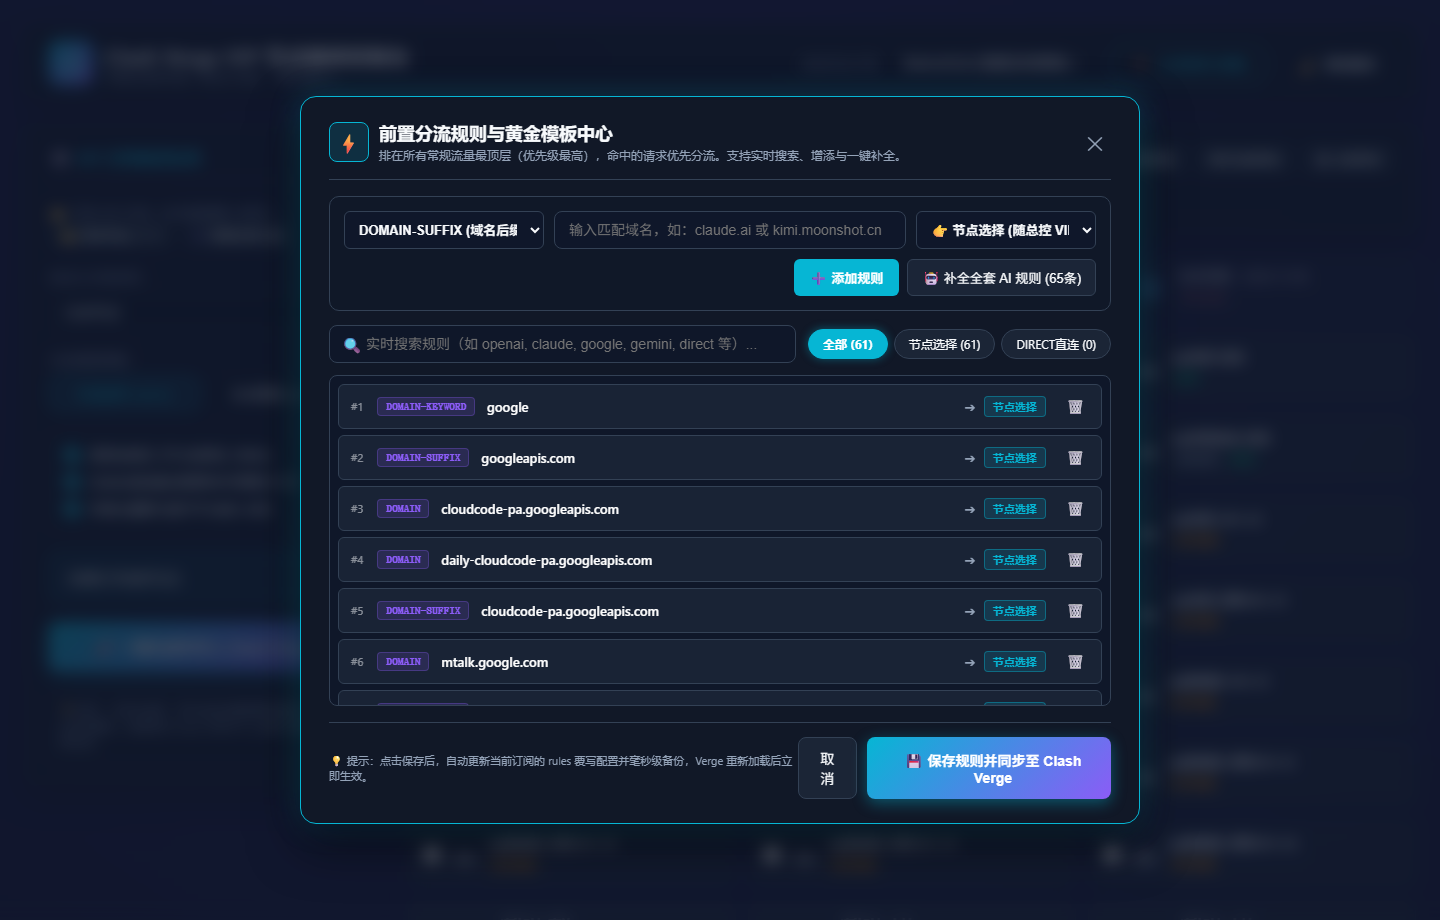
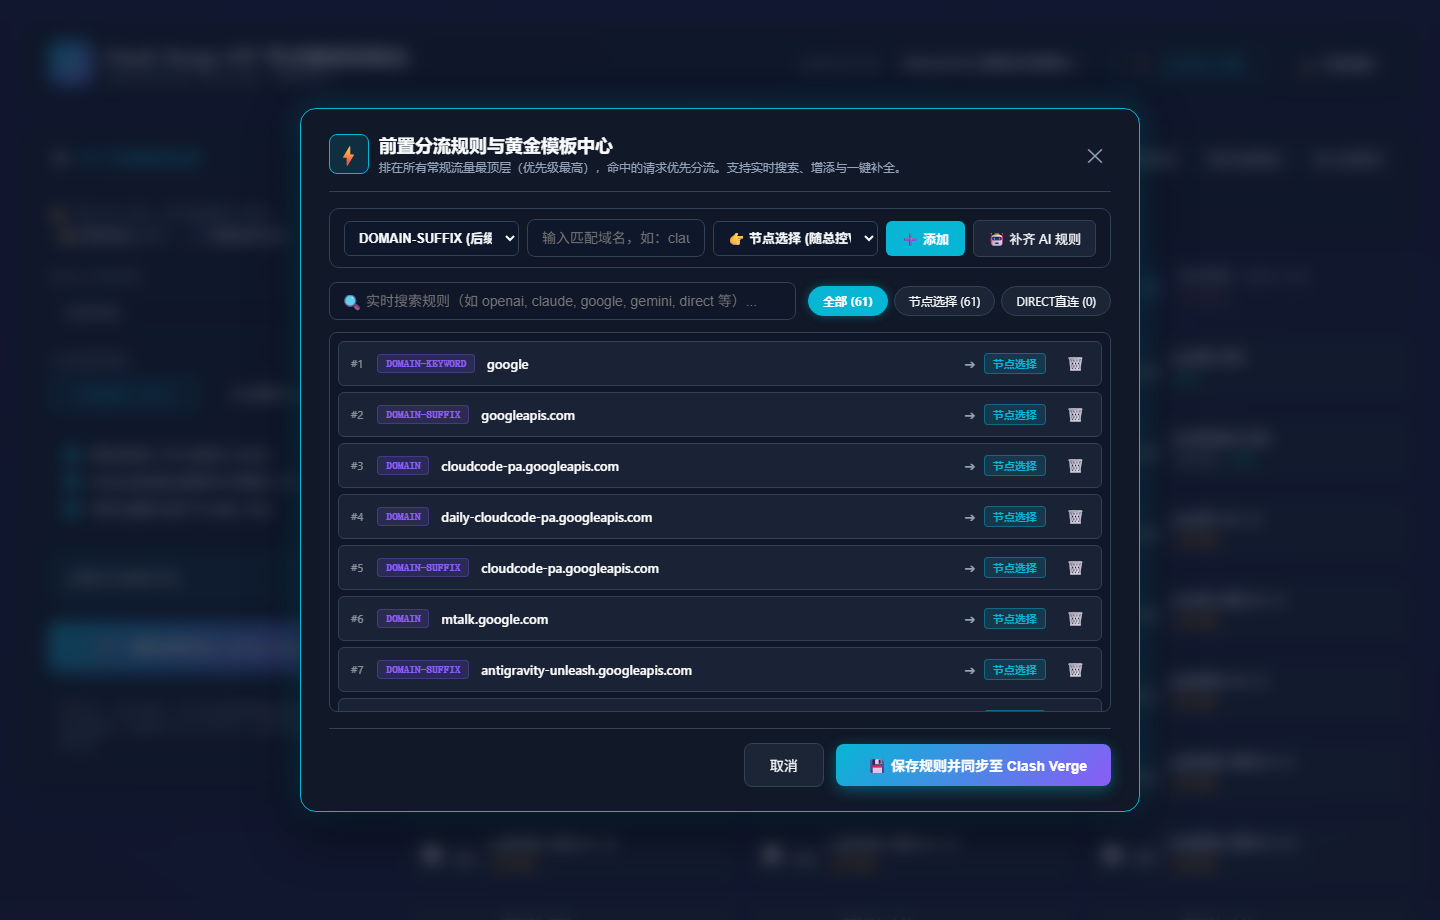
style: 重构规则配置模态框为单排流线型布局，移除冗余小字并优化底部操作对齐

Changed region(s): [[0.2188, 0.1217, 0.7812, 0.8826]]

diff --git a/web/index.html b/web/index.html
@@ -744,18 +744,15 @@
       background: var(--switch-bg);
       border: 1px solid var(--border);
       border-radius: 10px;
-      padding: 14px;
+      padding: 10px 14px;
       display: flex;
-      flex-direction: column;
-      gap: 10px;
+      align-items: center;
+      gap: 8px;
       margin-bottom: 14px;
     }
-    .rules-add-inputs {
-      display: grid;
-      grid-template-columns: 200px 1fr 180px;
-      gap: 10px;
-    }
-    .rules-select-type, .rules-select-target {
+    .rules-select-type {
+      width: 175px;
+      flex-shrink: 0;
       background: var(--bg-input);
       border: 1px solid var(--border);
       border-radius: 6px;
@@ -764,12 +761,30 @@
       font-size: 13px;
       outline: none;
     }
-    .rules-add-actions {
-      display: flex;
-      justify-content: flex-end;
-      gap: 8px;
+    .rules-input-payload {
+      flex: 1;
+      min-width: 0;
+      background: var(--bg-input);
+      border: 1px solid var(--border);
+      border-radius: 6px;
+      padding: 8px 12px;
+      color: var(--text);
+      font-size: 13px;
+      outline: none;
+    }
+    .rules-select-target {
+      width: 165px;
+      flex-shrink: 0;
+      background: var(--bg-input);
+      border: 1px solid var(--border);
+      border-radius: 6px;
+      padding: 8px 10px;
+      color: var(--text);
+      font-size: 13px;
+      outline: none;
     }
     .btn-add-rule {
+      flex-shrink: 0;
       background: var(--primary);
       color: #fff;
       border: none;
@@ -778,12 +793,14 @@
       font-size: 13px;
       font-weight: 600;
       cursor: pointer;
+      white-space: nowrap;
       transition: all 0.2s;
     }
     .btn-add-rule:hover {
       opacity: 0.9;
     }
     .btn-preset-rule {
+      flex-shrink: 0;
       background: var(--pill-bg);
       border: 1px solid var(--border);
       color: var(--text);
@@ -791,6 +808,7 @@
       padding: 8px 14px;
       font-size: 13px;
       cursor: pointer;
+      white-space: nowrap;
       transition: all 0.2s;
     }
     .btn-preset-rule:hover {
@@ -895,28 +913,26 @@
 
     .rules-modal-footer {
       display: flex;
-      justify-content: space-between;
+      justify-content: flex-end;
       align-items: center;
+      gap: 12px;
       margin-top: 16px;
       padding-top: 14px;
       border-top: 1px solid var(--border);
-    }
-    .rules-footer-tip {
-      font-size: 11px;
-      color: var(--text-muted);
     }
     .btn-save-rules {
       background: linear-gradient(135deg, var(--primary), var(--accent));
       color: #fff;
       border: none;
       border-radius: 8px;
-      padding: 10px 20px;
+      padding: 11px 24px;
       font-size: 14px;
       font-weight: 700;
       cursor: pointer;
       display: flex;
       align-items: center;
       gap: 8px;
+      white-space: nowrap;
       box-shadow: 0 4px 15px rgba(6,182,212,0.4);
       transition: all 0.2s;
     }
@@ -929,9 +945,16 @@
       border: 1px solid var(--border);
       color: var(--text);
       border-radius: 8px;
-      padding: 10px 16px;
+      padding: 11px 22px;
       font-size: 14px;
       cursor: pointer;
+      white-space: nowrap;
+      min-width: 80px;
+      text-align: center;
+      transition: all 0.2s;
+    }
+    .btn-cancel:hover {
+      background: var(--pill-hover);
     }
   </style>
 </head>
@@ -1117,27 +1140,23 @@
         <button class="rules-close-btn" onclick="closeRulesModal()">✕</button>
       </div>
 
-      <!-- 快速增添规则栏 (自动增添) -->
+      <!-- 快速增添规则栏 (单排流线型布局，一整排无折行) -->
       <div class="rules-add-bar">
-        <div class="rules-add-inputs">
-          <select id="ruleTypeInput" class="rules-select-type">
-            <option value="DOMAIN-SUFFIX">DOMAIN-SUFFIX (域名后缀)</option>
-            <option value="DOMAIN-KEYWORD">DOMAIN-KEYWORD (关键词)</option>
-            <option value="DOMAIN">DOMAIN (精确域名)</option>
-            <option value="IP-CIDR">IP-CIDR (网段)</option>
-            <option value="GEOIP">GEOIP (国家代码)</option>
-          </select>
-          <input type="text" id="rulePayloadInput" placeholder="输入匹配域名，如：claude.ai 或 kimi.moonshot.cn" onkeydown="if(event.key==='Enter') addNewRule()">
-          <select id="ruleTargetInput" class="rules-select-target">
-            <option value="节点选择">👉 节点选择 (随总控 VIP)</option>
-            <option value="DIRECT">⚡ DIRECT (国内直连)</option>
-            <option value="REJECT">⛔ REJECT (拦截阻断)</option>
-          </select>
-        </div>
-        <div class="rules-add-actions">
-          <button class="btn-add-rule" onclick="addNewRule()">➕ 添加规则</button>
-          <button class="btn-preset-rule" onclick="loadDefaultAIRules()" title="一键填入全套 65 条前置 AI 黄金规则">🤖 补全全套 AI 规则 (65条)</button>
-        </div>
+        <select id="ruleTypeInput" class="rules-select-type">
+          <option value="DOMAIN-SUFFIX">DOMAIN-SUFFIX (后缀)</option>
+          <option value="DOMAIN-KEYWORD">DOMAIN-KEYWORD (关键词)</option>
+          <option value="DOMAIN">DOMAIN (精确)</option>
+          <option value="IP-CIDR">IP-CIDR (网段)</option>
+          <option value="GEOIP">GEOIP (国家)</option>
+        </select>
+        <input type="text" id="rulePayloadInput" class="rules-input-payload" placeholder="输入匹配域名，如：claude.ai 或 x.ai" onkeydown="if(event.key==='Enter') addNewRule()">
+        <select id="ruleTargetInput" class="rules-select-target">
+          <option value="节点选择">👉 节点选择 (随总控VIP)</option>
+          <option value="DIRECT">⚡ DIRECT (国内直连)</option>
+          <option value="REJECT">⛔ REJECT (拦截阻断)</option>
+        </select>
+        <button class="btn-add-rule" onclick="addNewRule()">➕ 添加</button>
+        <button class="btn-preset-rule" onclick="loadDefaultAIRules()" title="一键补全全套 65 条前置 AI 黄金规则">🤖 补齐 AI 规则</button>
       </div>
 
       <!-- 搜索与筛选工具栏 -->
@@ -1158,18 +1177,13 @@
         <!-- 动态渲染 -->
       </div>
 
-      <!-- 底部操作与同步栏 -->
+      <!-- 底部操作与同步栏 (彻底删除冗余小字，单排整洁展示) -->
       <div class="rules-modal-footer">
-        <div class="rules-footer-tip">
-          💡 提示：点击保存后，自动更新当前订阅的 rules 覆写配置并毫秒级备份，Verge 重新加载后立即生效。
-        </div>
-        <div style="display: flex; gap: 10px;">
-          <button class="btn-cancel" onclick="closeRulesModal()">取消</button>
-          <button class="btn-save-rules" id="saveRulesBtn" onclick="saveRulesToServer()">
-            <span class="spinner" id="rulesSpinner"></span>
-            <span id="saveRulesBtnText">💾 保存规则并同步至 Clash Verge</span>
-          </button>
-        </div>
+        <button class="btn-cancel" onclick="closeRulesModal()">取消</button>
+        <button class="btn-save-rules" id="saveRulesBtn" onclick="saveRulesToServer()">
+          <span class="spinner" id="rulesSpinner"></span>
+          <span id="saveRulesBtnText">💾 保存规则并同步至 Clash Verge</span>
+        </button>
       </div>
     </div>
   </div>
